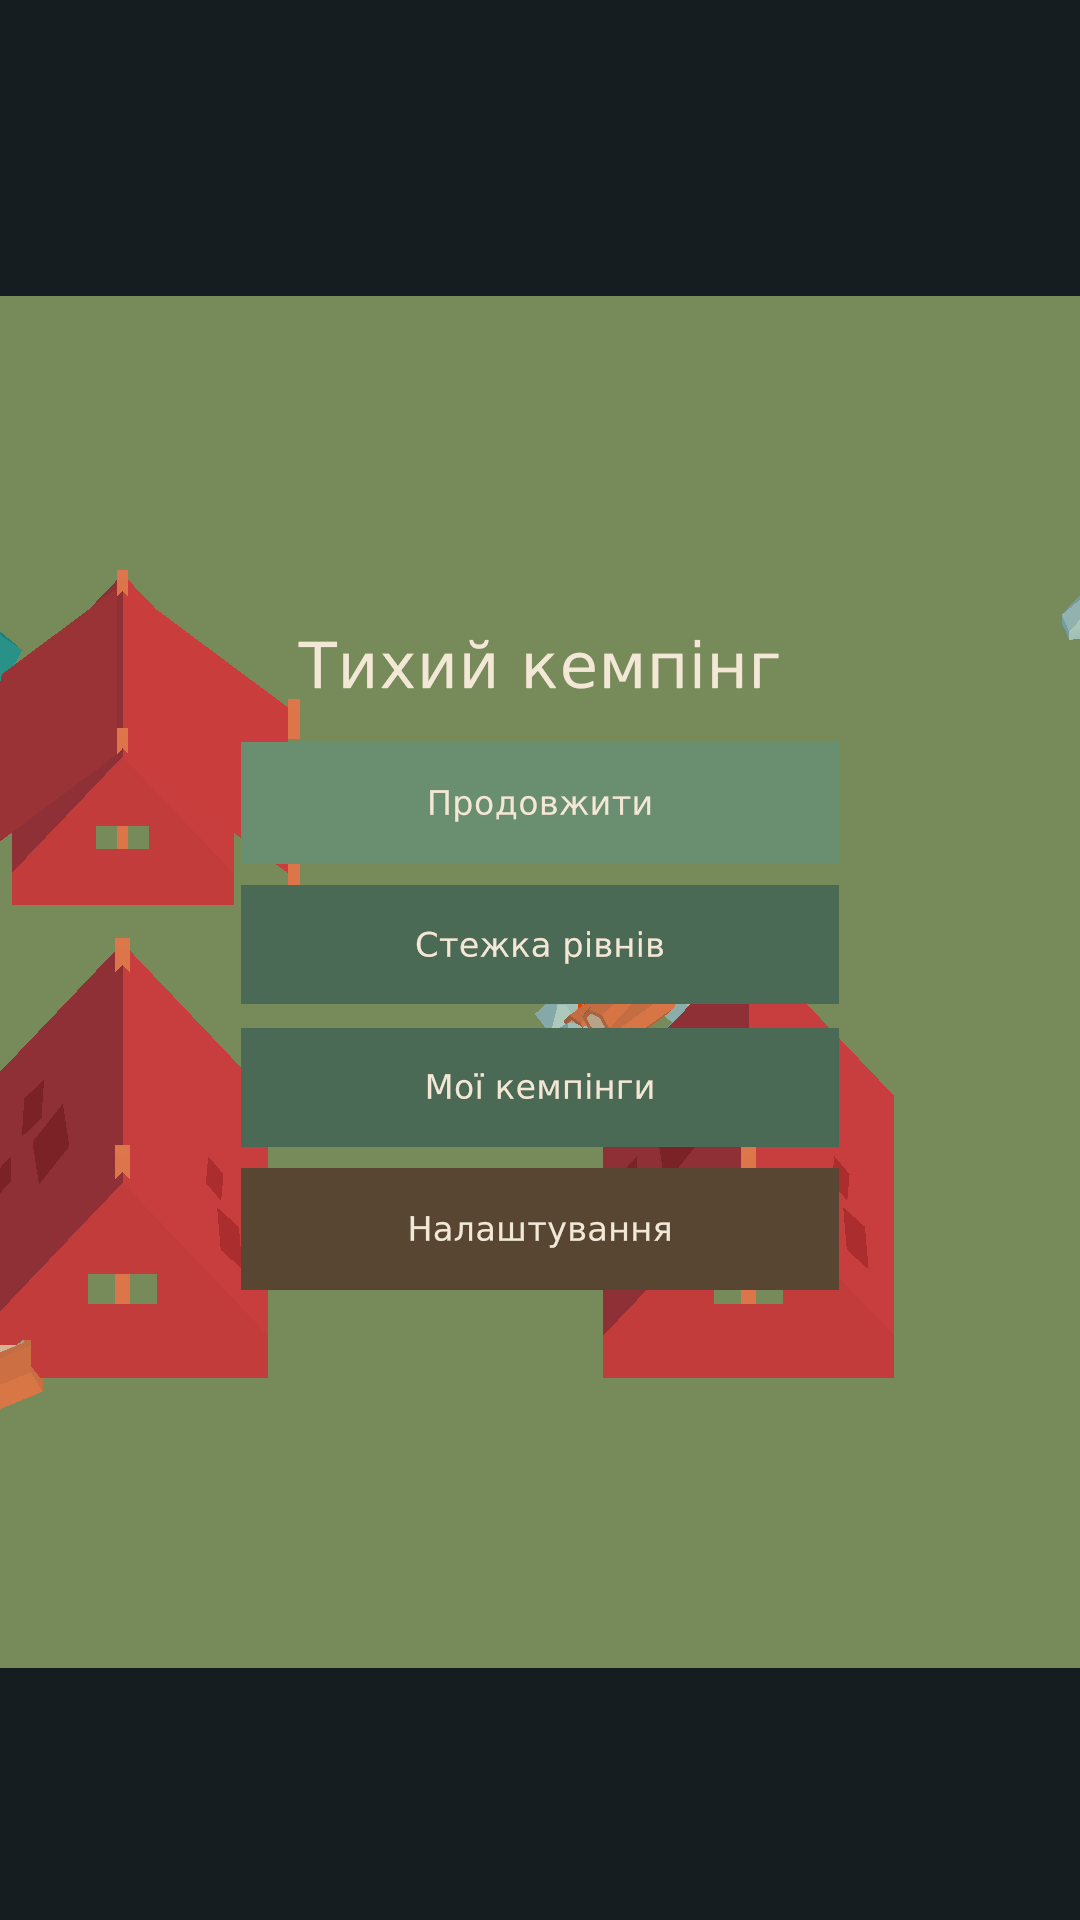
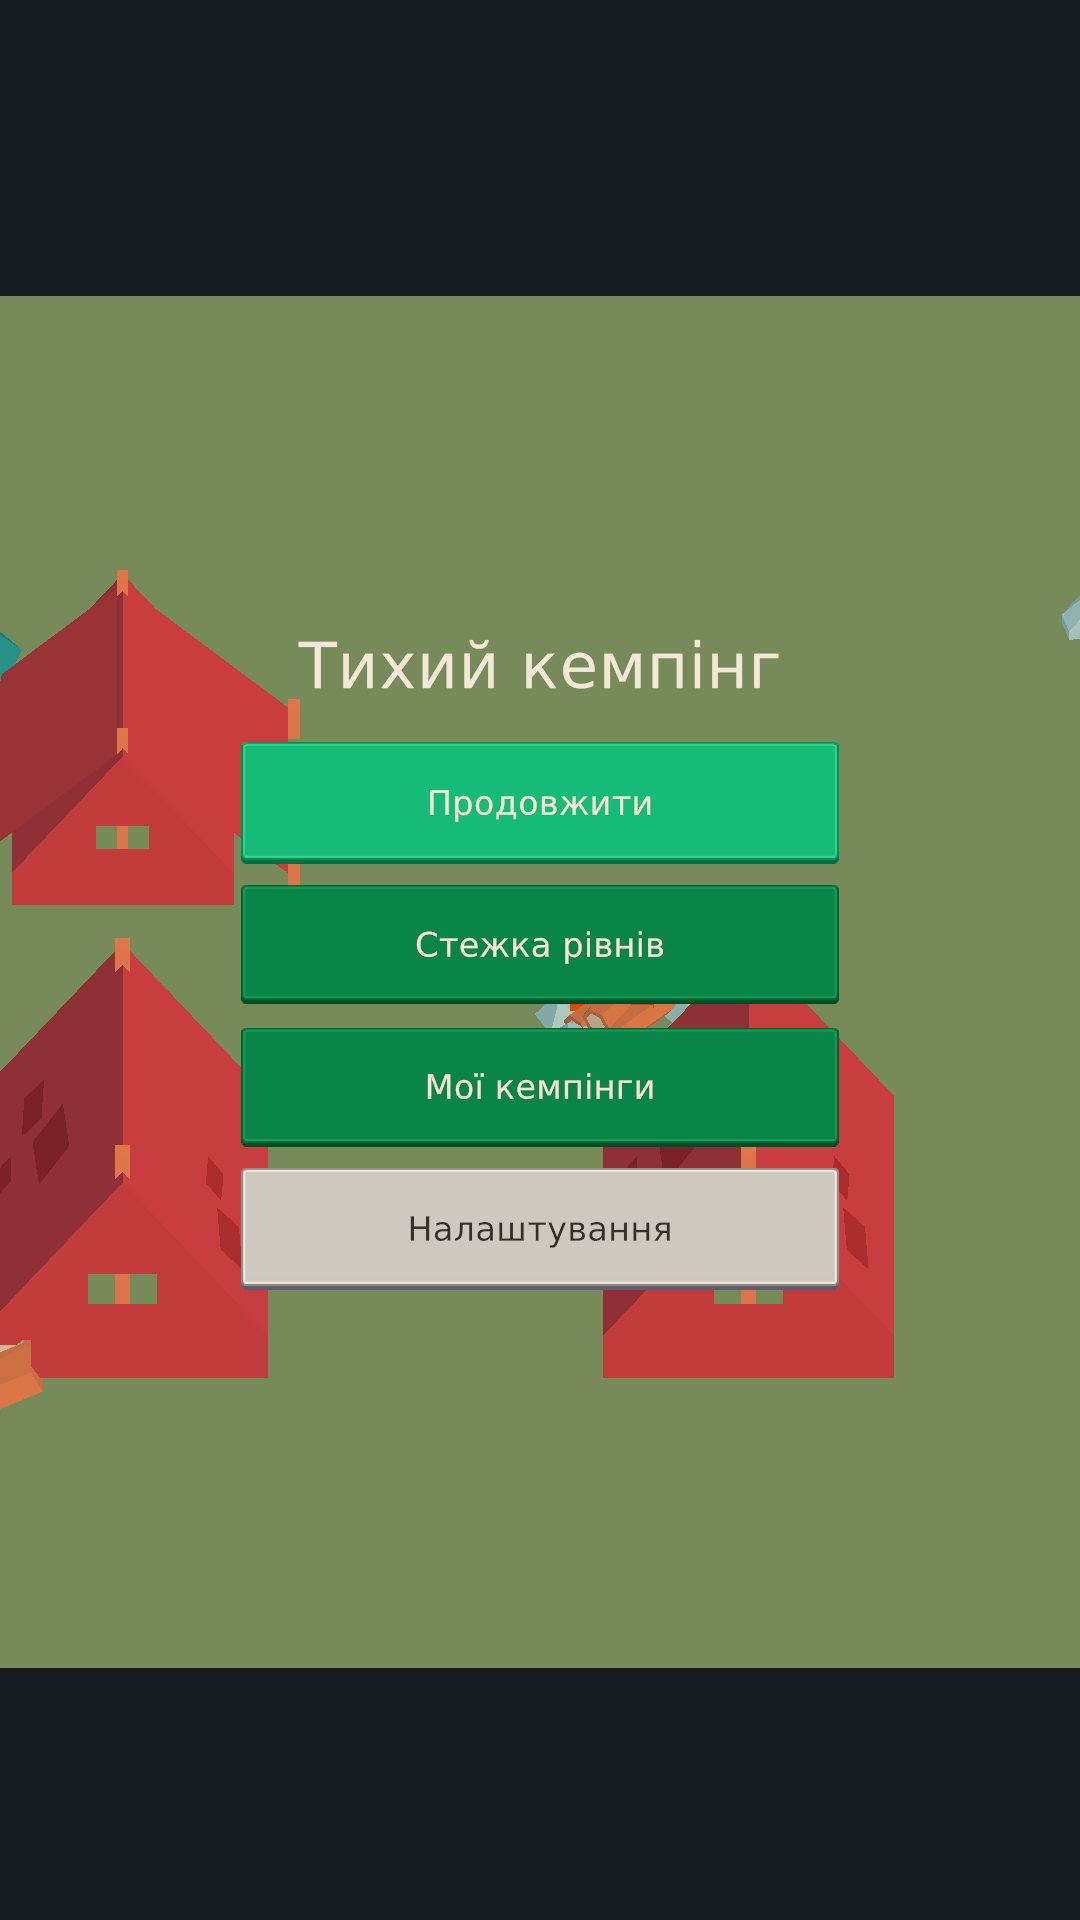
UI: Kenney sprite-based widgets across menu and camp HUD
QcUi now renders sliced Kenney sprites (green primary, light
secondary, red danger) instead of flat color rects; PanelImage backs
cards/modals/guest cards/rule chips. Matches the kit visual doc:
cream panels, green primary actions, dark ink labels on light
surfaces. Screenshots updated.

Generated with [Devin](https://devin.ai)

Changed region(s): [[0.2139, 0.375, 0.7944, 0.6875]]

diff --git a/QuietCamp/Assets/QuietCamp/Scripts/Presentation/UI/QcUi.cs b/QuietCamp/Assets/QuietCamp/Scripts/Presentation/UI/QcUi.cs
@@ -1,11 +1,15 @@
 using System;
+using System.Collections.Generic;
 using Kruty1918.Localization;
 using TMPro;
 using UnityEngine;
 using UnityEngine.UI;
 namespace QuietCamp.Presentation.UI
 {
-    /// <summary>Runtime uGUI factory: consistent fonts, colors and 48dp targets.</summary>
+    /// <summary>
+    /// Runtime uGUI factory: Kenney UI sprites (bundled in the kit) with the
+    /// quiet-camp palette, consistent fonts and 48dp touch targets.
+    /// </summary>
     public static class QcUi
     {
         public static readonly Color Cream = new Color(0.949f, 0.910f, 0.835f);
@@ -20,6 +24,35 @@ namespace QuietCamp.Presentation.UI
 
         public const float MinTouch = 88f; // ~48 dp at reference scale
         public const float TextBody = 30f, TextButton = 34f, TextTitle = 42f, TextSmall = 26f;
+
+        // ─── Kenney UI sprites (mirrored to Resources by KenneyUiImporter) ────
+
+        const string UiRoot = "QuietCamp/UI/";
+        const string BtnGreen = UiRoot + "Green/Default/button_rectangle_depth_flat";
+        const string BtnGrey = UiRoot + "Grey/Default/button_rectangle_depth_flat";
+        const string BtnRed = UiRoot + "Red/Default/button_rectangle_depth_flat";
+        const string CardSprite = UiRoot + "Extra/Default/input_rectangle";
+        public const string IconCheck = UiRoot + "Green/Default/icon_checkmark";
+        public const string IconCross = UiRoot + "Red/Default/icon_cross";
+        public const string IconRepeat = UiRoot + "Extra/Default/icon_repeat_dark";
+        public const string IconPlay = UiRoot + "Extra/Default/icon_play_light";
+        public const string IconArrowUp = UiRoot + "Extra/Default/icon_arrow_up_dark";
+
+        static readonly Dictionary<string, Sprite> _sprites = new Dictionary<string, Sprite>();
+
+        public static Sprite Sprite(string resourcePath)
+        {
+            if (_sprites.TryGetValue(resourcePath, out var s)) return s;
+            s = Resources.Load<Sprite>(resourcePath);
+            if (s == null)
+            {
+                Debug.LogWarning($"[QuietCamp] UI sprite missing: {resourcePath}");
+            }
+            _sprites[resourcePath] = s;
+            return s;
+        }
+
+        // ─── Layout helpers ──────────────────────────────────────────────────
 
         public static RectTransform Root(Transform parent, string name)
         {
@@ -45,6 +78,8 @@ namespace QuietCamp.Presentation.UI
             return r;
         }
 
+        // ─── Images ──────────────────────────────────────────────────────────
+
         public static Image Image(RectTransform parent, string name, Color color)
         {
             var r = Stretch(parent, name);
@@ -53,10 +88,39 @@ namespace QuietCamp.Presentation.UI
             return img;
         }
 
+        /// <summary>Sliced Kenney sprite stretched under a parent.</summary>
+        public static Image Sliced(RectTransform parent, string name,
+            string spritePath, Color tint)
+        {
+            var r = Stretch(parent, name);
+            var img = r.gameObject.AddComponent<UnityEngine.UI.Image>();
+            img.sprite = Sprite(spritePath);
+            img.type = UnityEngine.UI.Image.Type.Sliced;
+            img.color = tint;
+            return img;
+        }
+
+        /// <summary>Card/panel surface — light outlined input_rectangle.</summary>
         public static Image PanelImage(RectTransform parent, string name, Color color, float rounding = 0f)
         {
-            return Image(parent, name, color);
+            return Sliced(parent, name, CardSprite, color);
         }
+
+        /// <summary>Free-positioned icon image.</summary>
+        public static Image Icon(RectTransform parent, string spritePath,
+            float size = 64f, Color? tint = null)
+        {
+            var r = Root(parent, "icon");
+            r.sizeDelta = new Vector2(size, size);
+            var img = r.gameObject.AddComponent<UnityEngine.UI.Image>();
+            img.sprite = Sprite(spritePath);
+            img.preserveAspect = true;
+            img.color = tint ?? Color.white;
+            img.raycastTarget = false;
+            return img;
+        }
+
+        // ─── Text ────────────────────────────────────────────────────────────
 
         /// <summary>Non-interactive localized label. Registers for language refresh.</summary>
         public static LocalizedLabel Label(RectTransform parent, string key,
@@ -90,11 +154,25 @@ namespace QuietCamp.Presentation.UI
             return tmp;
         }
 
-        /// <summary>uGUI Button with a localized child label and press scale animation.</summary>
+        // ─── Buttons ─────────────────────────────────────────────────────────
+
+        /// <summary>
+        /// uGUI Button backed by a sliced Kenney sprite. The Color argument picks
+        /// the semantic variant: Green/Amber/GreenDark → green sprite tinted,
+        /// Brown/Disabled → light secondary, Danger → red sprite.
+        /// </summary>
         public static Button Button(RectTransform parent, string key, Action onClick,
             Color? bg = null, Vector2? minSize = null)
         {
-            var img = Image(parent, "Btn_" + key.Replace('.', '_'), bg ?? Green);
+            var c = bg ?? Green;
+            var isLight = c == Brown || c == Disabled;
+            var sprite = c == Danger ? BtnRed : isLight ? BtnGrey : BtnGreen;
+            var tint = c == Green ? Color.white
+                : c == GreenDark ? new Color(0.62f, 0.72f, 0.62f)
+                : c == Amber ? new Color(1f, 0.78f, 0.45f)
+                : c == Danger ? Color.white
+                : isLight ? Cream : Color.white;
+            var img = Sliced(parent, "Btn_" + key.Replace('.', '_'), sprite, tint);
             img.raycastTarget = true;
             var btn = img.gameObject.AddComponent<Button>();
             var rt = img.rectTransform;
@@ -104,14 +182,41 @@ namespace QuietCamp.Presentation.UI
             var tmp = labelRect.gameObject.AddComponent<TextMeshProUGUI>();
             tmp.fontSize = TextButton;
             tmp.alignment = TextAlignmentOptions.Center;
-            tmp.color = Cream;
+            tmp.color = isLight ? Ink : Cream;
             tmp.raycastTarget = false;
             var loc = labelRect.gameObject.AddComponent<LocalizedLabel>();
             loc.Bind(key);
             var colors = btn.colors;
-            colors.highlightedColor = Color.Lerp(bg ?? Green, Color.white, 0.12f);
-            colors.pressedColor = Color.Lerp(bg ?? Green, Color.black, 0.12f);
-            colors.disabledColor = Disabled;
+            colors.highlightedColor = new Color(1.1f, 1.1f, 1.1f);
+            colors.pressedColor = new Color(0.82f, 0.82f, 0.82f);
+            colors.disabledColor = new Color(0.55f, 0.55f, 0.55f, 0.7f);
+            colors.fadeDuration = 0.08f;
+            btn.colors = colors;
+            if (onClick != null) btn.onClick.AddListener(() => onClick());
+            return btn;
+        }
+
+        /// <summary>Icon button — square sprite + icon child.</summary>
+        public static Button IconButton(RectTransform parent, string spritePath,
+            Action onClick, Color? bg = null, float size = 96f)
+        {
+            var c = bg ?? Green;
+            var sprite = c == Danger ? BtnGrey : BtnGreen;
+            var img = Sliced(parent, "IconBtn", sprite,
+                c == Green ? Color.white : c);
+            img.raycastTarget = true;
+            var rt = img.rectTransform;
+            rt.sizeDelta = new Vector2(size, size);
+            var btn = img.gameObject.AddComponent<Button>();
+            var icon = Icon(rt, spritePath, size * 0.55f,
+                c == Brown ? Ink : Color.white);
+            icon.rectTransform.anchorMin = new Vector2(0.5f, 0.5f);
+            icon.rectTransform.anchorMax = new Vector2(0.5f, 0.5f);
+            icon.rectTransform.anchoredPosition = Vector2.zero;
+            var colors = btn.colors;
+            colors.pressedColor = new Color(0.82f, 0.82f, 0.82f);
+            colors.disabledColor = new Color(0.55f, 0.55f, 0.55f, 0.7f);
+            colors.fadeDuration = 0.08f;
             btn.colors = colors;
             if (onClick != null) btn.onClick.AddListener(() => onClick());
             return btn;

diff --git a/QuietCamp/Assets/QuietCamp/Scripts/Presentation/UI/CampHud.cs b/QuietCamp/Assets/QuietCamp/Scripts/Presentation/UI/CampHud.cs
@@ -109,8 +109,7 @@ namespace QuietCamp.Presentation.UI
                 var chip = QcUi.Anchor(row, "chip_" + used[i],
                     new Vector2(i * w + 0.005f, 0), new Vector2((i + 1) * w - 0.005f, 1),
                     Vector2.zero, Vector2.zero);
-                var img = chip.gameObject.AddComponent<Image>();
-                img.color = QcUi.CreamDark;
+                var img = QcUi.PanelImage(chip, "bg", QcUi.CreamDark);
                 _chips[used[i]] = img;
                 QcUi.Label(chip, used[i], QcUi.TextSmall,
                     TMPro.TextAlignmentOptions.Center, QcUi.Ink);
@@ -147,10 +146,10 @@ namespace QuietCamp.Presentation.UI
             {
                 var card = QcUi.Root(content, "card_" + g.id);
                 card.sizeDelta = new Vector2(230f, 140f);
-                var img = card.gameObject.AddComponent<Image>();
-                img.color = QcUi.Cream;
+                var img = QcUi.PanelImage(card, "bg", QcUi.Cream);
                 img.raycastTarget = true;
                 var btn = card.gameObject.AddComponent<Button>();
+                btn.targetGraphic = img;
                 var guestId = g.id;
                 btn.onClick.AddListener(() => _services.Actions.Execute(
                     new UiActionRequest(new UiActionId("qc.select"), UiActionSource.Button, "Gameplay", guestId, guestId)));
@@ -237,7 +236,7 @@ namespace QuietCamp.Presentation.UI
             var card = QcUi.Anchor(group.transform as RectTransform, "Card",
                 new Vector2(0.5f, 0.5f), new Vector2(0.5f, 0.5f),
                 new Vector2(-330, -260), new Vector2(330, 260));
-            card.gameObject.AddComponent<Image>().color = QcUi.Cream;
+            QcUi.PanelImage(card, "bg", Color.white);
             var col = QcUi.Stretch(card, "col");
             var layout = col.gameObject.AddComponent<VerticalLayoutGroup>();
             layout.padding = new RectOffset(30, 30, 30, 30);
@@ -257,7 +256,7 @@ namespace QuietCamp.Presentation.UI
             var card = QcUi.Anchor(group.transform as RectTransform, "Card",
                 new Vector2(0.5f, 0.5f), new Vector2(0.5f, 0.5f),
                 new Vector2(-340, -220), new Vector2(340, 220));
-            card.gameObject.AddComponent<Image>().color = QcUi.Cream;
+            QcUi.PanelImage(card, "bg", Color.white);
             var col = QcUi.Stretch(card, "col");
             var layout = col.gameObject.AddComponent<VerticalLayoutGroup>();
             layout.padding = new RectOffset(30, 30, 30, 30);
@@ -280,7 +279,7 @@ namespace QuietCamp.Presentation.UI
             var card = QcUi.Anchor(group.transform as RectTransform, "Card",
                 new Vector2(0.5f, 0.5f), new Vector2(0.5f, 0.5f),
                 new Vector2(-360, -280), new Vector2(360, 280));
-            card.gameObject.AddComponent<Image>().color = QcUi.Cream;
+            QcUi.PanelImage(card, "bg", Color.white);
             var col = QcUi.Stretch(card, "col");
             var layout = col.gameObject.AddComponent<VerticalLayoutGroup>();
             layout.padding = new RectOffset(30, 30, 30, 30);
@@ -366,7 +365,7 @@ namespace QuietCamp.Presentation.UI
             {
                 var g = _session.Level.guests[i];
                 var placed = _session.State.Contains(g.id);
-                var img = _guestCards[i].GetComponent<Image>();
+                var img = _guestCards[i].GetComponentInChildren<Image>();
                 img.color = placed
                     ? new Color(0.72f, 0.84f, 0.70f)
                     : _session.SelectedGuestId == g.id ? QcUi.Amber : QcUi.Cream;

diff --git a/QuietCamp/Assets/QuietCamp/Scripts/Presentation/UI/MenuScreens.cs b/QuietCamp/Assets/QuietCamp/Scripts/Presentation/UI/MenuScreens.cs
@@ -73,7 +73,7 @@ namespace QuietCamp.Presentation.UI
             var card = QcUi.Anchor(root.transform as RectTransform, "Card",
                 new Vector2(0.5f, 0.5f), new Vector2(0.5f, 0.5f),
                 new Vector2(-460, -700), new Vector2(460, 700));
-            card.gameObject.AddComponent<Image>().color = QcUi.Cream;
+            QcUi.PanelImage(card, "bg", Color.white);
             var col = QcUi.Stretch(card, "col");
             var layout = col.gameObject.AddComponent<VerticalLayoutGroup>();
             layout.padding = new RectOffset(36, 36, 30, 30);
@@ -132,7 +132,7 @@ namespace QuietCamp.Presentation.UI
             var card = QcUi.Anchor(root.transform as RectTransform, "Card",
                 new Vector2(0.5f, 0.5f), new Vector2(0.5f, 0.5f),
                 new Vector2(-440, -720), new Vector2(440, 720));
-            card.gameObject.AddComponent<Image>().color = QcUi.Cream;
+            QcUi.PanelImage(card, "bg", Color.white);
             var scroll = QcUi.Stretch(card, "scroll");
             var scrollRect = scroll.gameObject.AddComponent<ScrollRect>();
             scrollRect.horizontal = false;
@@ -237,7 +237,7 @@ namespace QuietCamp.Presentation.UI
             var card = QcUi.Anchor(root.transform as RectTransform, "Card",
                 new Vector2(0.5f, 0.5f), new Vector2(0.5f, 0.5f),
                 new Vector2(-460, -700), new Vector2(460, 700));
-            card.gameObject.AddComponent<Image>().color = QcUi.Cream;
+            QcUi.PanelImage(card, "bg", Color.white);
             var col = QcUi.Stretch(card, "col");
             var layout = col.gameObject.AddComponent<VerticalLayoutGroup>();
             layout.padding = new RectOffset(36, 36, 30, 30);
@@ -282,7 +282,7 @@ namespace QuietCamp.Presentation.UI
             {
                 var row = QcUi.Root(_albumList, "entry_" + e.levelId);
                 row.sizeDelta = new Vector2(0, 100);
-                row.gameObject.AddComponent<Image>().color = QcUi.CreamDark;
+                QcUi.PanelImage(row, "bg", QcUi.CreamDark);
                 var btn = row.gameObject.AddComponent<Button>();
                 var levelId = e.levelId;
                 btn.onClick.AddListener(() => Action("qc.play", levelId));
@@ -300,7 +300,7 @@ namespace QuietCamp.Presentation.UI
             var card = QcUi.Anchor(root.transform as RectTransform, "Card",
                 new Vector2(0.5f, 0.5f), new Vector2(0.5f, 0.5f),
                 new Vector2(-400, -320), new Vector2(400, 320));
-            card.gameObject.AddComponent<Image>().color = QcUi.Cream;
+            QcUi.PanelImage(card, "bg", Color.white);
             var col = QcUi.Stretch(card, "col");
             var layout = col.gameObject.AddComponent<VerticalLayoutGroup>();
             layout.padding = new RectOffset(36, 36, 36, 36);
@@ -413,8 +413,7 @@ namespace QuietCamp.Presentation.UI
             QcUi.Label(label, key, QcUi.TextSmall, TextAlignmentOptions.MidlineLeft, QcUi.Ink);
             var boxGo = QcUi.Anchor(row, "t",
                 new Vector2(0.8f, 0.15f), new Vector2(1, 0.85f), Vector2.zero, Vector2.zero);
-            var box = boxGo.gameObject.AddComponent<Image>();
-            box.color = QcUi.CreamDark;
+            var box = QcUi.PanelImage(boxGo, "bg", QcUi.CreamDark);
             var toggle = boxGo.gameObject.AddComponent<Toggle>();
             var check = QcUi.Anchor(boxGo, "check",
                 Vector2.zero, Vector2.one, new Vector2(8, 8), new Vector2(-8, -8));
